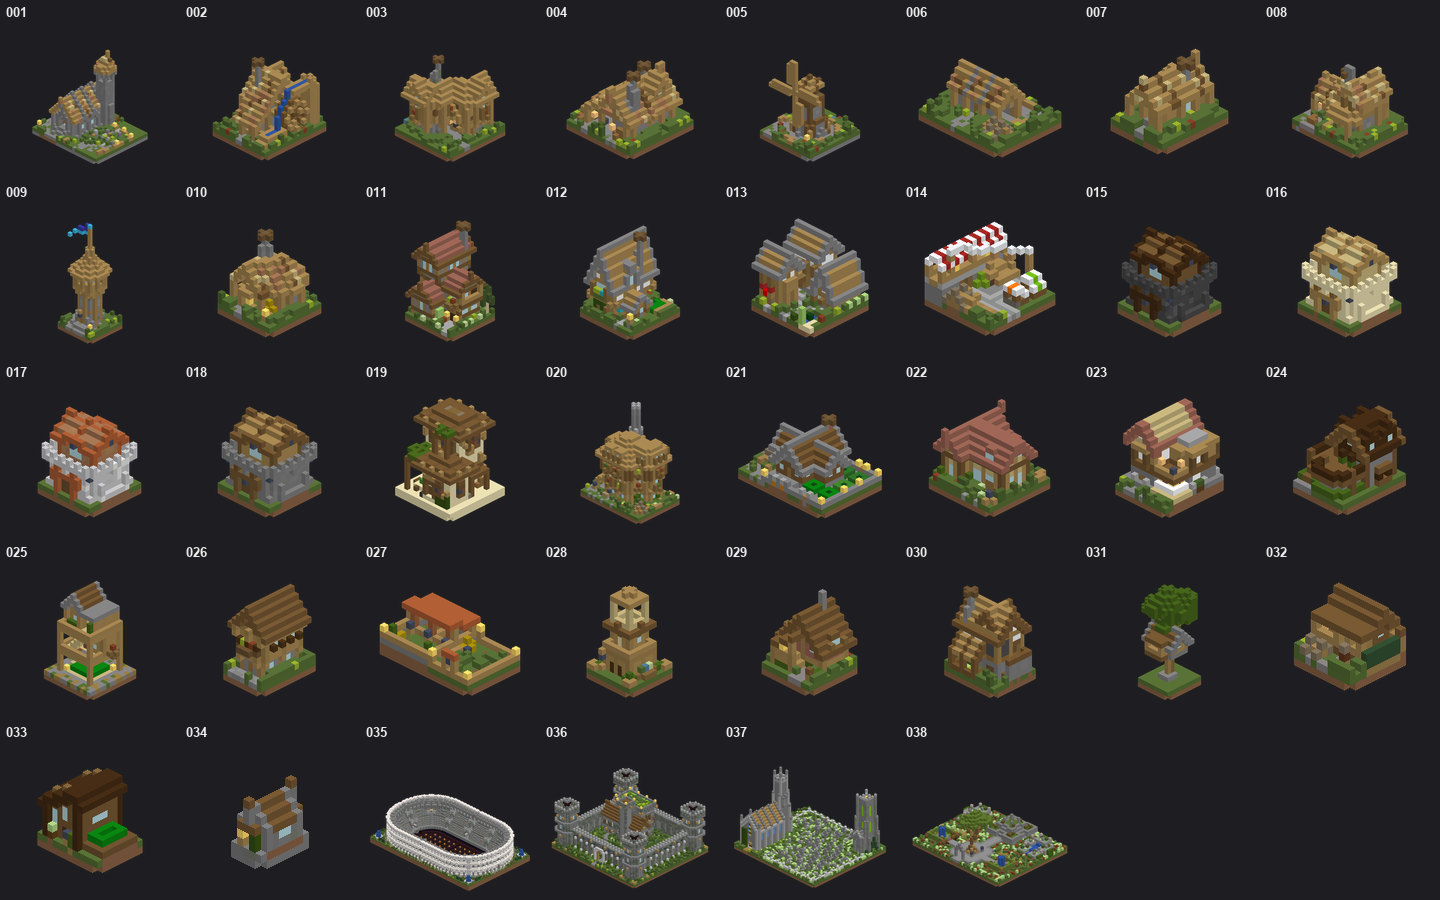
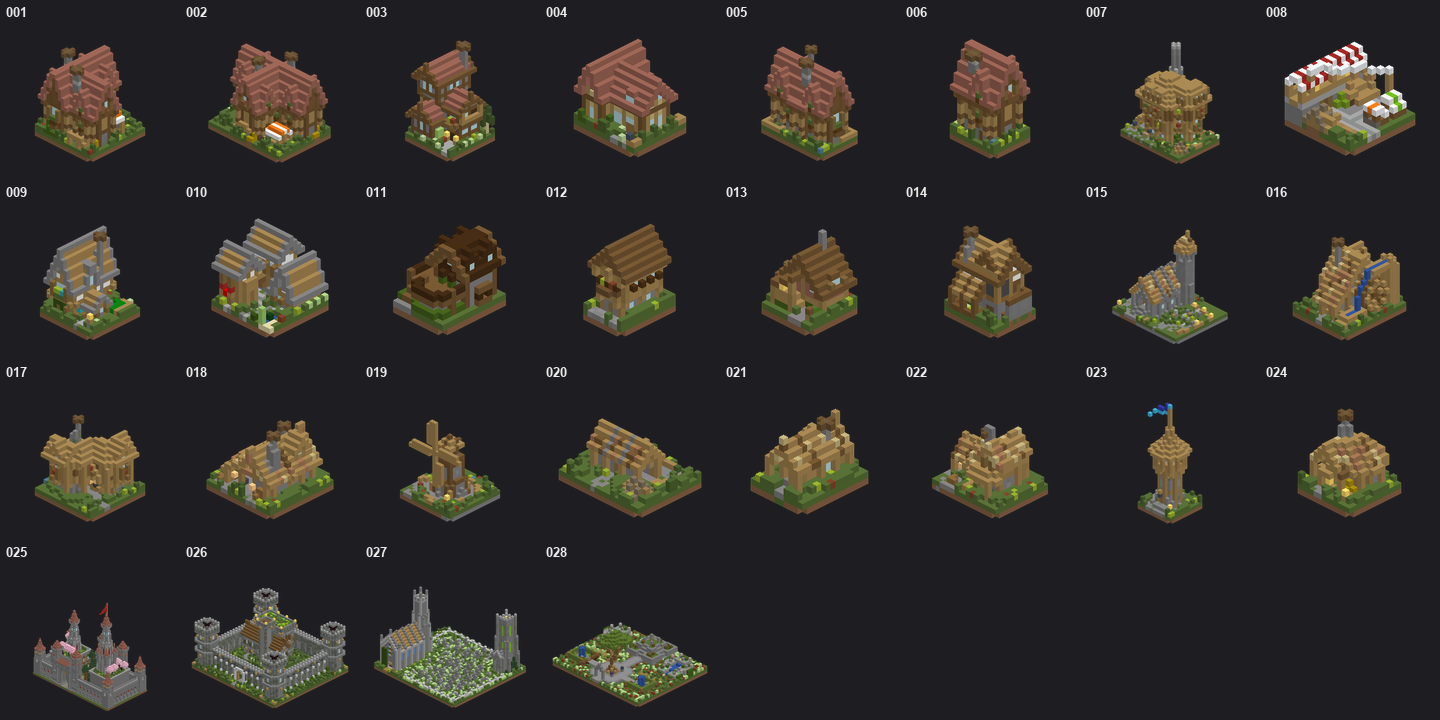
README and Store pictures: new city renders and asset sheets; four Store screenshots
The Store screenshots are the app's window on its Build tab (docs/pics/promo1-4)
over an in-game backdrop (docs/pics/base.png), with a caption on the left as in
agent-2b's. The README shows the new isometric renders and drops the UI section.

diff --git a/store/shots.html b/store/shots.html
@@ -1,21 +1,29 @@
 <!doctype html>
 <!-- The Store's screenshots: render.py loads this page at 1366 x 768 (rendered at 2x) once per shot, named by the
-     hash (#promo, #world, #assets, #markers, #styles, #app). Each is a caption on the left and a real picture on the
-     right, from docs/pics/: the app's own city render, the exported world in MC, the asset sheet, the marker
-     tutorial, or the app's window. Needs Edge's --allow-file-access-from-files, to read those files from file://. -->
+     hash. Laid out as agent-2b's are: a caption on the left and the app on the right, the real window captured on its
+     Build tab (docs/pics/promo*.png). Needs Edge's --allow-file-access-from-files, to read them from file://. -->
 <html lang="en">
 <head>
 <meta charset="utf-8">
 <link rel="stylesheet" href="brand.css">
 <style>
   html, body { width: 1366px; height: 768px; }
-  /* The grid fades out behind the picture. */
-  body::before { mask-image: linear-gradient(90deg, #000 0%, rgba(0, 0, 0, 0.6) 30%, transparent 55%); }
-
+  /* Behind it all, an in-game shot (docs/pics/base.png) of grass and dirt blocks: it says which game this is for
+     without naming it. Shaded darker behind the caption, which also gets a soft shadow. */
+  body::before { display: none; }
+  .backdrop { position: absolute; inset: 0; background: url(../docs/pics/base.png) center / cover no-repeat; }
+  .shade {
+    position: absolute; inset: 0;
+    background: linear-gradient(90deg, rgba(0, 0, 0, 0.6) 0%, rgba(0, 0, 0, 0.45) 32%, rgba(0, 0, 0, 0.1) 62%, rgba(0, 0, 0, 0.18) 100%);
+  }
+  .caption { text-shadow: 0 2px 12px rgba(0, 0, 0, 0.75); }
+  /* Gradient text draws its shadow over itself, so the accent gets a drop shadow instead. */
+  .caption .brand { text-shadow: none; filter: drop-shadow(0 2px 6px rgba(0, 0, 0, 0.85)); }
+  .facts span { text-shadow: none; background: rgba(0, 0, 0, 0.5); }
   .caption { position: absolute; left: 60px; top: 0; bottom: 0; width: 330px; display: flex; flex-direction: column; justify-content: center; }
-  .caption .app { display: flex; align-items: center; gap: 12px; margin-bottom: 34px; font-size: 19px; font-weight: 600; }
-  .caption .app img { width: 44px; height: 44px; }
-  .caption .app small { display: block; margin-top: 1px; font-size: 14px; font-weight: 400; color: rgba(255, 255, 255, 0.72); }
+  .app { display: flex; flex-direction: column; align-items: flex-start; gap: 18px; margin-bottom: 34px; font-size: 38px; line-height: 1.1; font-weight: 600; }
+  .app img { width: 176px; height: 176px; margin-left: -10px; filter: drop-shadow(0 8px 16px rgba(0, 0, 0, 0.45)); }
+  .app small { display: block; margin-top: 4px; font-size: 28px; font-weight: 400; color: rgba(255, 255, 255, 0.72); }
   h1 { margin: 0; font-size: 40px; line-height: 1.1; font-weight: 700; letter-spacing: -0.02em; }
   .caption p { margin: 20px 0 0; font: 400 17px/1.5 "Segoe UI Variable Text", "Segoe UI", sans-serif; color: rgba(255, 255, 255, 0.8); }
   .facts { display: flex; flex-wrap: wrap; gap: 8px; margin-top: 28px; }
@@ -24,74 +32,55 @@
     background: rgba(255, 255, 255, 0.1); border: 1px solid rgba(255, 255, 255, 0.22);
   }
 
-  /* The picture, fitted into the right of the shot. */
-  .picture {
-    position: absolute; right: 44px; top: 50%; transform: translateY(-50%);
-    border-radius: 10px; overflow: hidden;
+  /* The real window, on the right: Windows 11's rounded corners and a deep shadow, up to 900 x 680 so it never
+     reaches the caption. */
+  .window {
+    position: absolute; right: 44px; top: 50%; transform: translateY(-50%); overflow: hidden; border-radius: 9px;
     box-shadow: 0 0 0 1px rgba(255, 255, 255, 0.16), 0 32px 80px rgba(2, 6, 40, 0.6), 0 10px 24px rgba(2, 6, 40, 0.35);
   }
-  /* Up to 900 x 680, whole: a tall picture keeps its shape and the frame shrinks to it. */
-  .picture img { display: block; max-width: 900px; max-height: 680px; }
+  .window img { display: block; max-width: 900px; max-height: 680px; }
 </style>
 </head>
 <body>
-  <div class="caption">
-    <div class="app"><img src="../src/gui/icons/app-icon.svg" alt=""><span>MC CityGen<small>Procedural City Generator</small></span></div>
-    <h1 id="title"></h1>
-    <p id="text"></p>
-    <div class="facts" id="facts"></div>
-  </div>
-  <div class="picture"><img id="picture" alt=""></div>
 <script>
-  // One entry per shot. LISTING.md makes the same claims in words; change both together.
+  // One entry per shot: its headline (the accent in the grass gradient), text and the capture of the app's
+  // window. LISTING.md makes the same claims in words; change both together.
+  const FACTS = ["Java Edition 26.1.2+", "Built-in assets", "Use your own world"];   // the same on every shot
   const SHOTS = {
     promo: {
-      title: "A whole city from the buildings you make",
+      title: 'A whole city from <span class="brand">the buildings you make.</span>',
       text: "Mark up a few roads and buildings in your MC world. CityGen lays out the streets and fills them.",
-      facts: ["Java Edition 26.1.2+", "Works offline"],
-      picture: "../docs/pics/isometric1.png",
-    },
-    world: {
-      title: "Walk its streets",
-      text: "Every city comes out as a world you can open in MC, and as a schematic for your own world.",
-      facts: ["Playable world", ".schem schematic"],
-      picture: "../docs/pics/ingame1.png",
-    },
-    assets: {
-      title: "Hand-built buildings included",
-      text: "A modern asset set, built block by block, is ready to use: houses, towers, landmarks and roads.",
-      facts: ["Houses", "Landmarks", "Roads"],
-      picture: "../docs/pics/assets_modern.png",
-    },
-    markers: {
-      title: "Bring your own buildings",
-      text: "Put a gold block and a diamond block at opposite corners, and an emerald at ground level. That is the whole markup.",
-      facts: ["Gold", "Diamond", "Emerald"],
-      picture: "../docs/pics/type1.png",
+      window: "../docs/pics/promo1.png",
     },
     styles: {
-      title: "Any style you build",
-      text: "The city takes the look of the buildings you give it, from glass towers to castle walls.",
-      facts: ["Modern", "Medieval", "Yours"],
-      picture: "../docs/pics/ingame3.png",
+      title: 'Any style<br><span class="brand">you build.</span>',
+      text: "The city takes the look of the buildings you give it. This medieval town comes from the built-in medieval set.",
+      window: "../docs/pics/promo3.png",
     },
-    app: {
-      title: "Preview before you build",
-      text: "See the road network and the building layout first. Tune city size, road density and spacing, then build.",
-      facts: ["Extract", "Preview", "Build"],
-      picture: "../docs/pics/ui2.png",
+    seeds: {
+      title: 'Every seed,<br><span class="brand">a new city.</span>',
+      text: "Same buildings, new streets. Change the layout seed, or tune road density, spacing and the building mix, and build again.",
+      window: "../docs/pics/promo2.png",
+    },
+    size: {
+      title: 'From a village<br><span class="brand">to a metropolis.</span>',
+      text: "Five city sizes, from Very Small to Very Big. Preview the roads and the layout before you build.",
+      window: "../docs/pics/promo4.png",
     },
   };
 
-  const shot = SHOTS[location.hash.slice(1)] || SHOTS.promo;
-  document.getElementById("title").textContent = shot.title;
-  document.getElementById("text").textContent = shot.text;
-  document.getElementById("picture").src = shot.picture;
-  for (const fact of shot.facts) {
-    const chip = document.createElement("span");
-    chip.textContent = fact;
-    document.getElementById("facts").append(chip);
-  }
+  const shot = SHOTS[location.hash.slice(1) || "promo"];
+  if (!shot) throw new Error("Unknown shot " + location.hash);
+  document.body.insertAdjacentHTML("beforeend", `
+    <div class="backdrop"></div>
+    <div class="shade"></div>
+    <div class="caption">
+      <div class="app"><img src="../src/gui/icons/app-icon.svg" alt=""><span>MC CityGen<small>Procedural City Generator</small></span></div>
+      <h1>${shot.title}</h1>
+      <p>${shot.text}</p>
+      <div class="facts">${FACTS.map(f => `<span>${f}</span>`).join("")}</div>
+    </div>
+    <div class="window"><img src="${shot.window}" alt=""></div>`);
 </script>
 </body>
 </html>

diff --git a/store/render.py b/store/render.py
@@ -24,11 +24,9 @@ EDGE_PROFILE = STORE.parent / "build" / "edge-render"  # a profile of its own, s
 # Partner Center's sizes: screenshots 1366 x 768 or larger, box art 2160 x 2160, poster art 1440 x 2160, tile 300 x 300.
 IMAGES = [
     ("screenshot-1-promo.png", "shots.html#promo", 1366, 768, 2),
-    ("screenshot-2-world.png", "shots.html#world", 1366, 768, 2),
-    ("screenshot-3-assets.png", "shots.html#assets", 1366, 768, 2),
-    ("screenshot-4-markers.png", "shots.html#markers", 1366, 768, 2),
-    ("screenshot-5-styles.png", "shots.html#styles", 1366, 768, 2),
-    ("screenshot-6-app.png", "shots.html#app", 1366, 768, 2),
+    ("screenshot-2-seeds.png", "shots.html#seeds", 1366, 768, 2),
+    ("screenshot-3-styles.png", "shots.html#styles", 1366, 768, 2),
+    ("screenshot-4-size.png", "shots.html#size", 1366, 768, 2),
     ("box-art-2160.png", "logo.html", 1080, 1080, 2),
     ("poster-art-1440x2160.png", "logo.html", 720, 1080, 2),
     ("store-logo-300.png", "logo.html#tile", 300, 300, 1),

diff --git a/store/LISTING.md b/store/LISTING.md
@@ -24,7 +24,7 @@ Your buildings, your style
 Mark a building with a gold block and a diamond block at opposite corners, and an emerald block at ground level. Stack three marked pieces and the building grows taller or shorter to fit the city. Modern towers, medieval walls: the city takes the look of whatever you build.
 
 Ready to use
-A modern asset set, built by hand block by block, comes with the app, so you can make a city before you build anything.
+A modern and a medieval asset set, built by hand block by block, come with the app, so you can make a city before you build anything.
 
 Tune the city
 City size, road density, avenue and street spacing, turns and T-junctions, house style variety and landmark spacing. A seed makes any city again.
@@ -56,7 +56,7 @@ Exports a playable world and a .schem schematic
 A rendered picture of every city
 Mark up your own buildings with three blocks: gold, diamond, emerald
 Stackable buildings that grow to fit the city
-A hand-built modern asset set included
+Hand-built modern and medieval asset sets included
 Tune size, road density, spacing, turns and building mix
 Works offline: no account, no ads, no tracking
 Open source (Apache 2.0)
@@ -66,13 +66,10 @@ Open source (Apache 2.0)
 
 Upload in this order (the first is shown first):
 
-1. `listing/screenshot-1-promo.png`: a finished city, as the app renders it
-2. `listing/screenshot-2-world.png`: the exported world in MC
-3. `listing/screenshot-3-assets.png`: the built-in modern asset set
-4. `listing/screenshot-4-markers.png`: marking up your own building
-5. `listing/screenshot-5-styles.png`: a medieval city
-6. `listing/screenshot-6-app.png`: the Preview tab
-
+1. `listing/screenshot-1-promo.png`: the app with a finished modern city
+2. `listing/screenshot-2-seeds.png`: the app with another modern city
+3. `listing/screenshot-3-styles.png`: the app with a medieval town
+4. `listing/screenshot-4-size.png`: the app with a small medieval town
 ## Store logos
 
 | Slot | File |

diff --git a/README.md b/README.md
@@ -12,8 +12,8 @@
 <table>
   <tr><th>Modern City</th><th>Medieval City</th></tr>
   <tr>
-    <td valign="bottom" align="center"><img src="docs/pics/modern.gif"></td>
-    <td valign="bottom" align="center"><img src="docs/pics/medieval.gif"></td>
+    <td valign="bottom" align="center"><img src="docs/pics/modern_iso.png"></td>
+    <td valign="bottom" align="center"><img src="docs/pics/medieval_iso.png"></td>
   </tr>
   <tr>
     <td><img src="docs/pics/ingame1.png"></td>
@@ -31,12 +31,6 @@
 | --- | --- |
 | <img src="docs/pics/assets_modern.png" alt="Modern built-in asset sheet" width="100%"> | <img src="docs/pics/assets_modern.gif" alt="Modern built-in assets animated preview" width="100%"> | 
 | <img src="docs/pics/assets_medieval.png" alt="Medieval built-in asset sheet" width="100%"> | <img src="docs/pics/assets_medieval.gif" alt="Medieval built-in assets animated preview" width="100%"> | 
-
-# User Interface
-
-| Extraction | Preview & Generation |
-| --- | --- |
-| <img src="docs/pics/ui1.png" alt="UI Image 1" width="100%"> | <img src="docs/pics/ui2.png" alt="UI Image 2" width="100%"> |
 
 # Tutorial - Marking Your Own Assets
 
